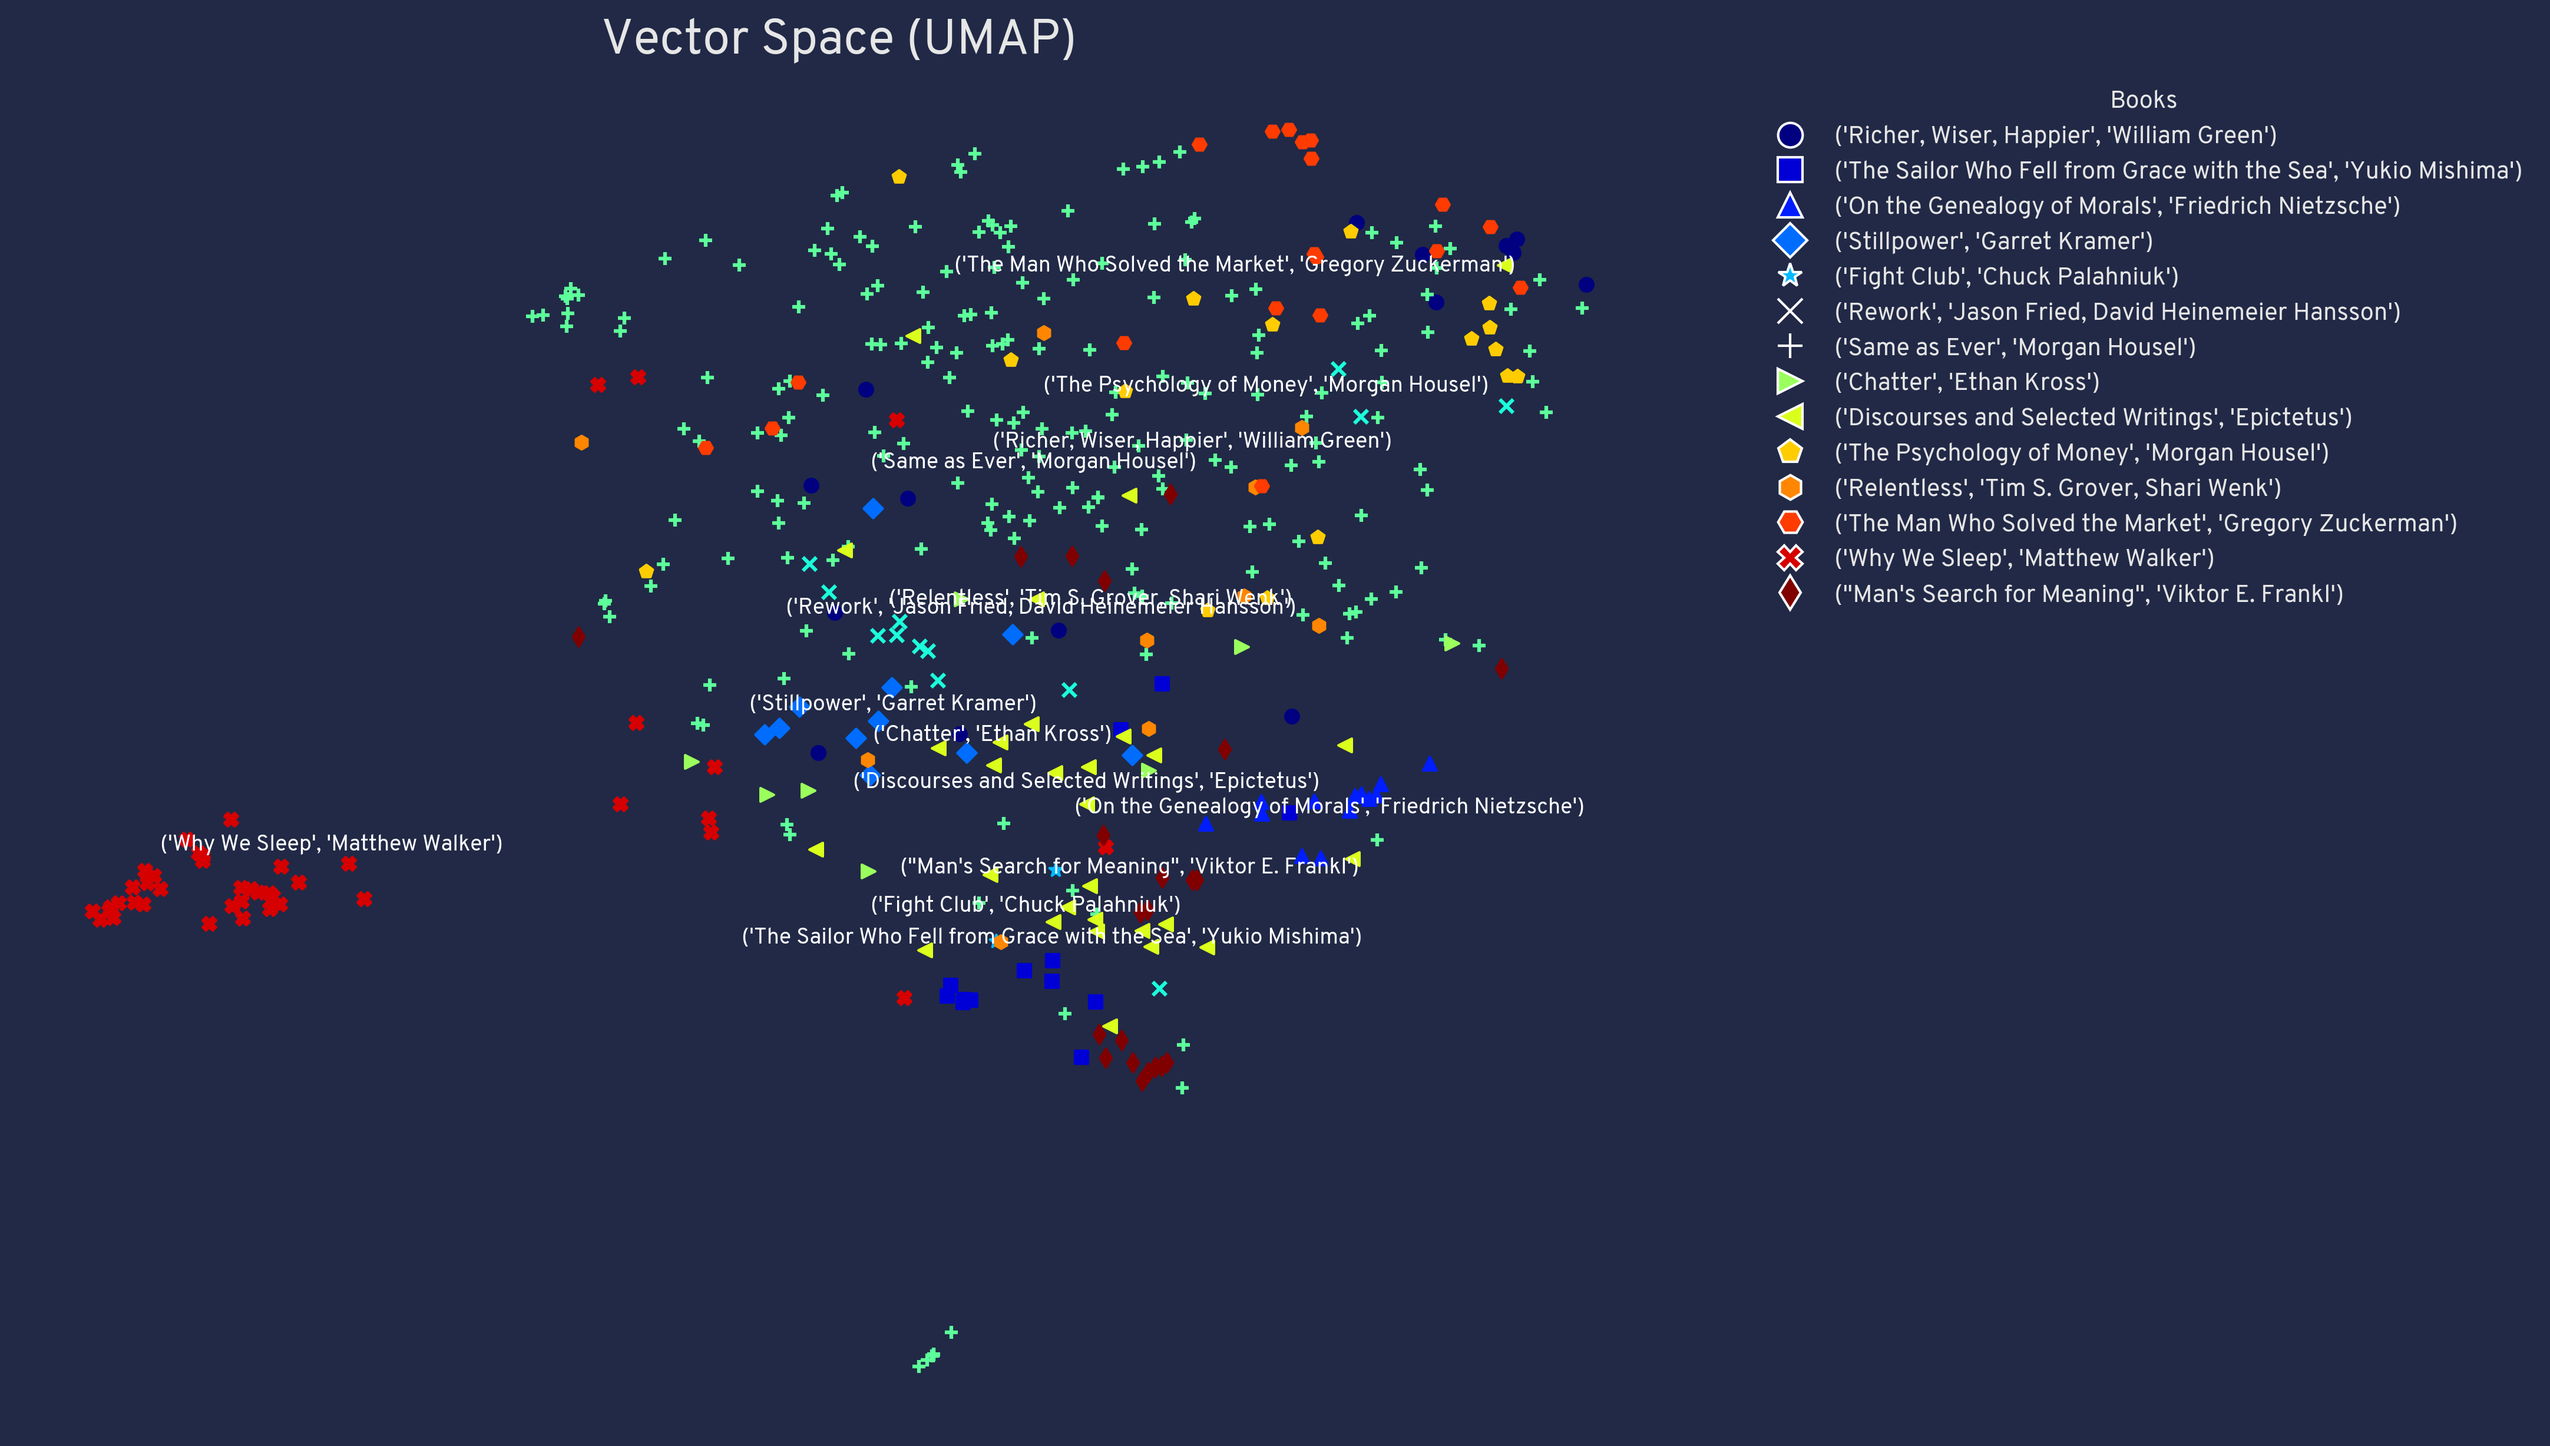
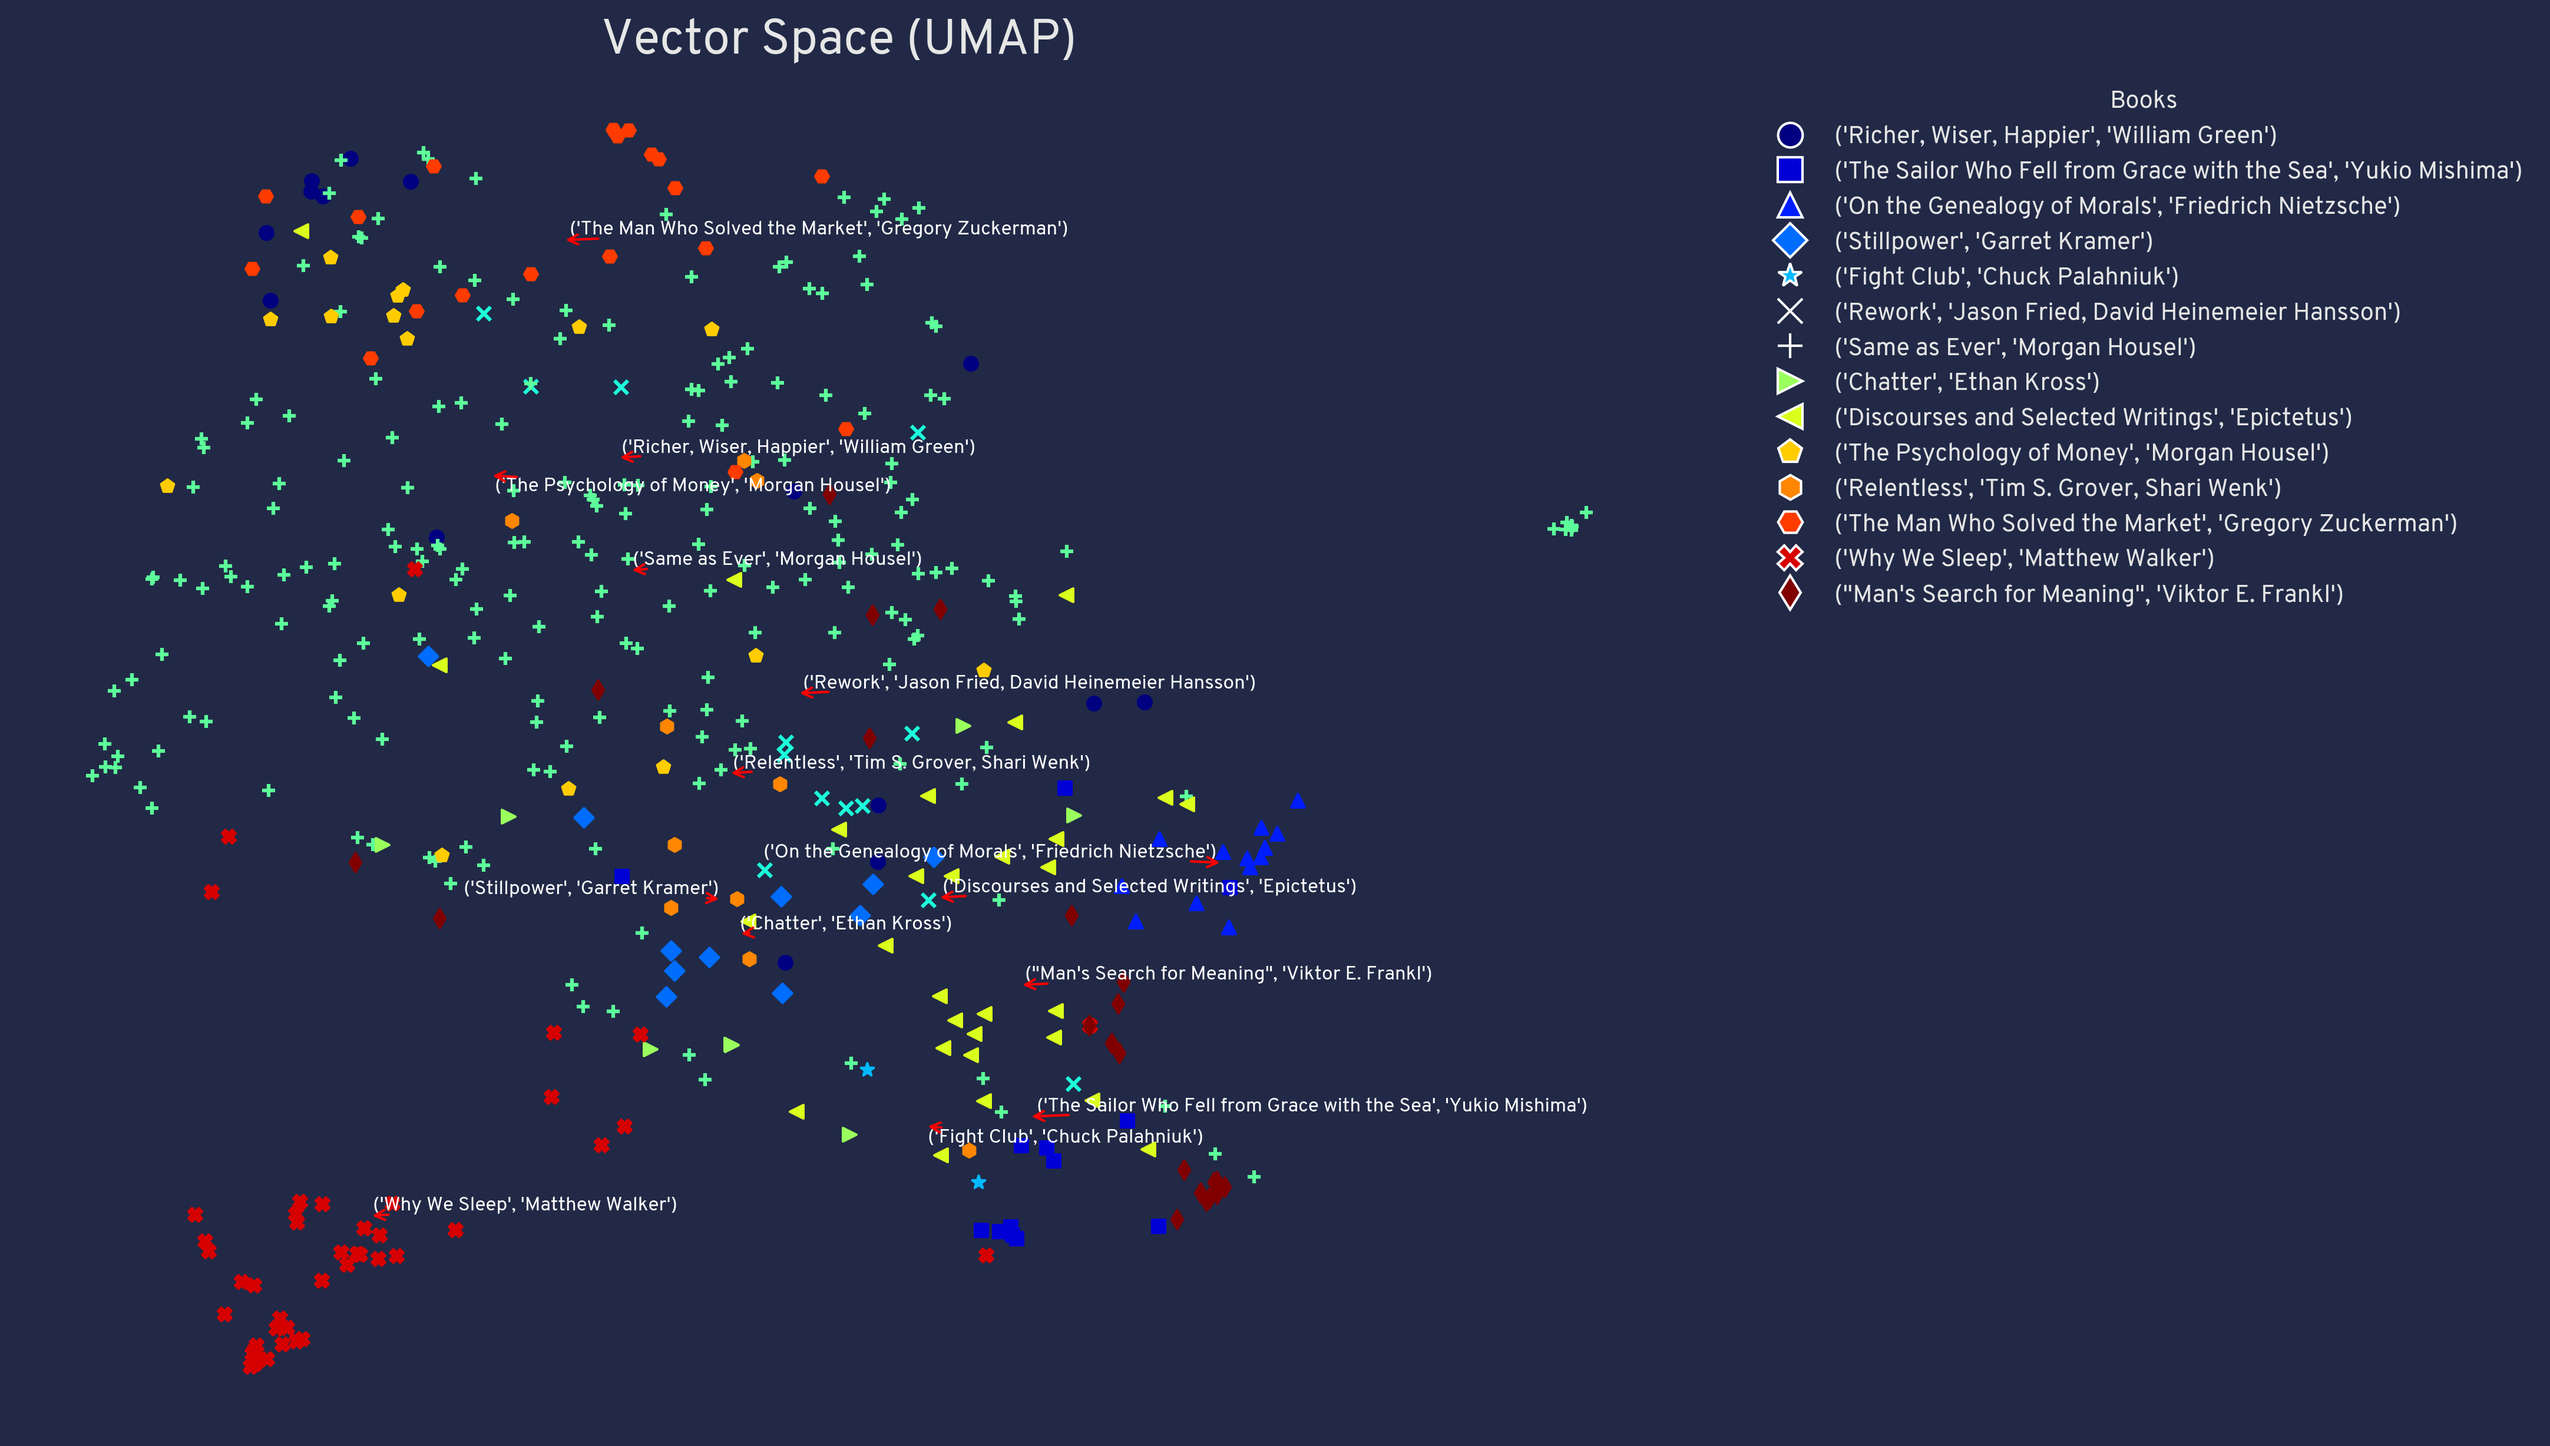
general updates

diff --git a/_layouts/post.html b/_layouts/post.html
@@ -38,6 +38,7 @@ layout: default
             <em>—{{ page.title }}</em> by {{ page.authors | join: ", " }}
             <svg class="svg-icon" onclick="copyToClipboard('{{ forloop.index0 }}', this)" transform="translate(0,4)" xmlns="http://www.w3.org/2000/svg" width="24" height="24" viewBox="0 0 24 24" fill="none" stroke="#000000" stroke-width="1.5" stroke-linecap="round" stroke-linejoin="round"><path d="M16 4h2a2 2 0 0 1 2 2v14a2 2 0 0 1-2 2H6a2 2 0 0 1-2-2V6a2 2 0 0 1 2-2h2"></path><rect x="8" y="2" width="8" height="4" rx="1" ry="1"></rect></svg>
         </li>
+        <br>
         {% endfor %}
     </ul>
 

diff --git a/embeddings.py b/embeddings.py
@@ -6,6 +6,7 @@ import pandas as pd
 from sentence_transformers import SentenceTransformer
 import json
 import umap.umap_ as umap
+from adjustText import adjust_text
 import matplotlib.pyplot as plt
 import numpy as np
 import requests
@@ -95,6 +96,7 @@ plt.style.use('https://github.com/dhaitz/matplotlib-stylesheets/raw/master/pitay
 # Plotting
 plt.figure(figsize=(12,10))
 legend_elements = []
+texts = []  # List to store all the texts for adjust_text
 
 for idx, isbn in enumerate(unique_isbns):
     indices = [i for i, x in enumerate(isbns) if x == isbn]
@@ -108,15 +110,18 @@ for idx, isbn in enumerate(unique_isbns):
     centroid_y = np.mean(umap_embeddings[indices, 1])
 
     # Annotate with book title at the centroid
-    plt.annotate(isbn_to_info[isbn], (centroid_x, centroid_y), fontsize=9, ha='center', va='center', color='white')
+    text = plt.text(centroid_x, centroid_y, isbn_to_info[isbn], fontsize=8, ha='center', va='center', color='white')
+    texts.append(text)
 
     # Create a custom legend entry for each ISBN
     legend_elements.append(plt.Line2D([0], [0], marker=marker_style, color='w', label=isbn_to_info[isbn], markersize=10, markerfacecolor=scatter.get_facecolor()[0], linestyle='None'))
 
 plt.legend(handles=legend_elements, title='Books', bbox_to_anchor=(1.05, 1), loc='upper left')
 
-plt.title('Vector Space (UMAP)', fontsize=20)
+# Use adjust_text to iteratively adjust text position
+adjust_text(texts, arrowprops=dict(arrowstyle='->', color='red'))
 
+plt.title('Vector Space (UMAP)', fontsize=20)
 plt.grid(False)
 plt.axis('off')
 
